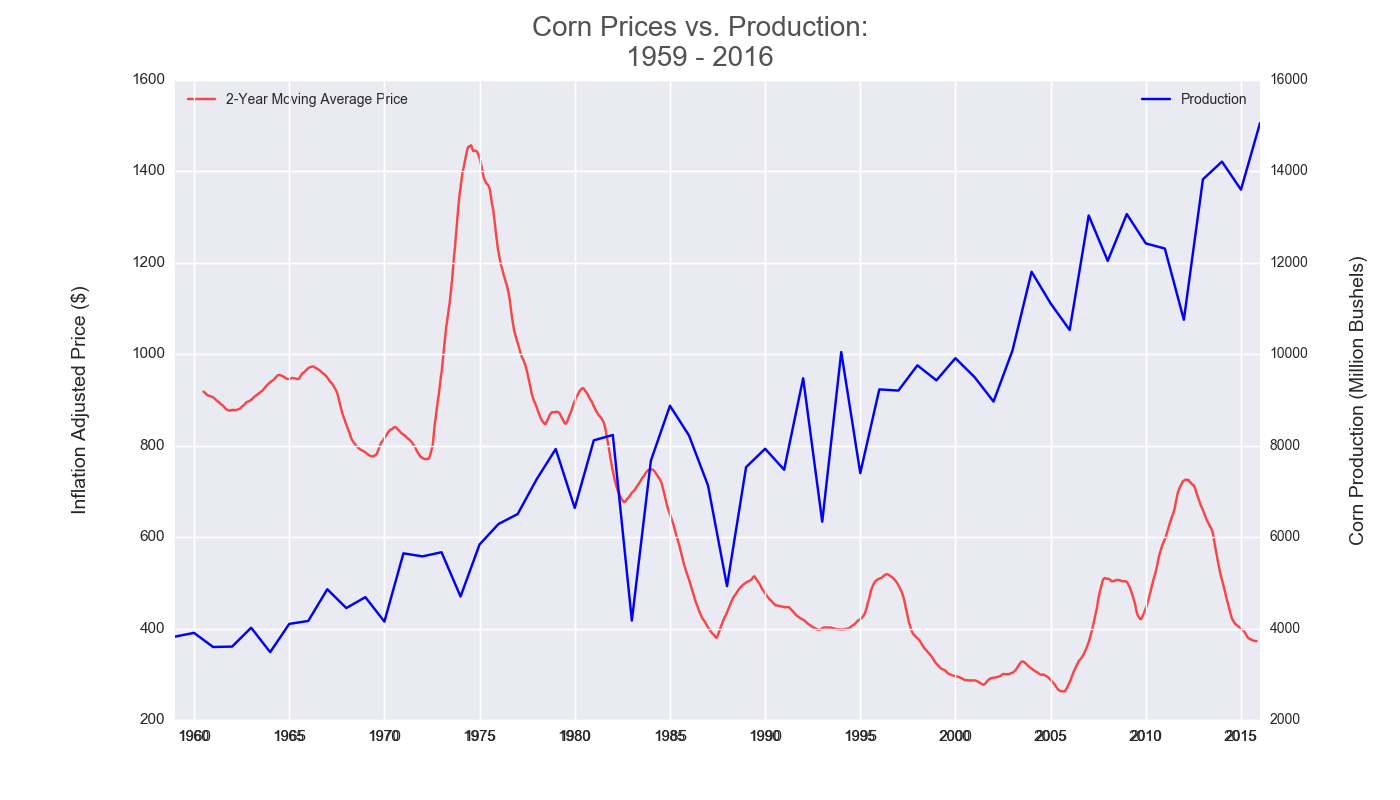
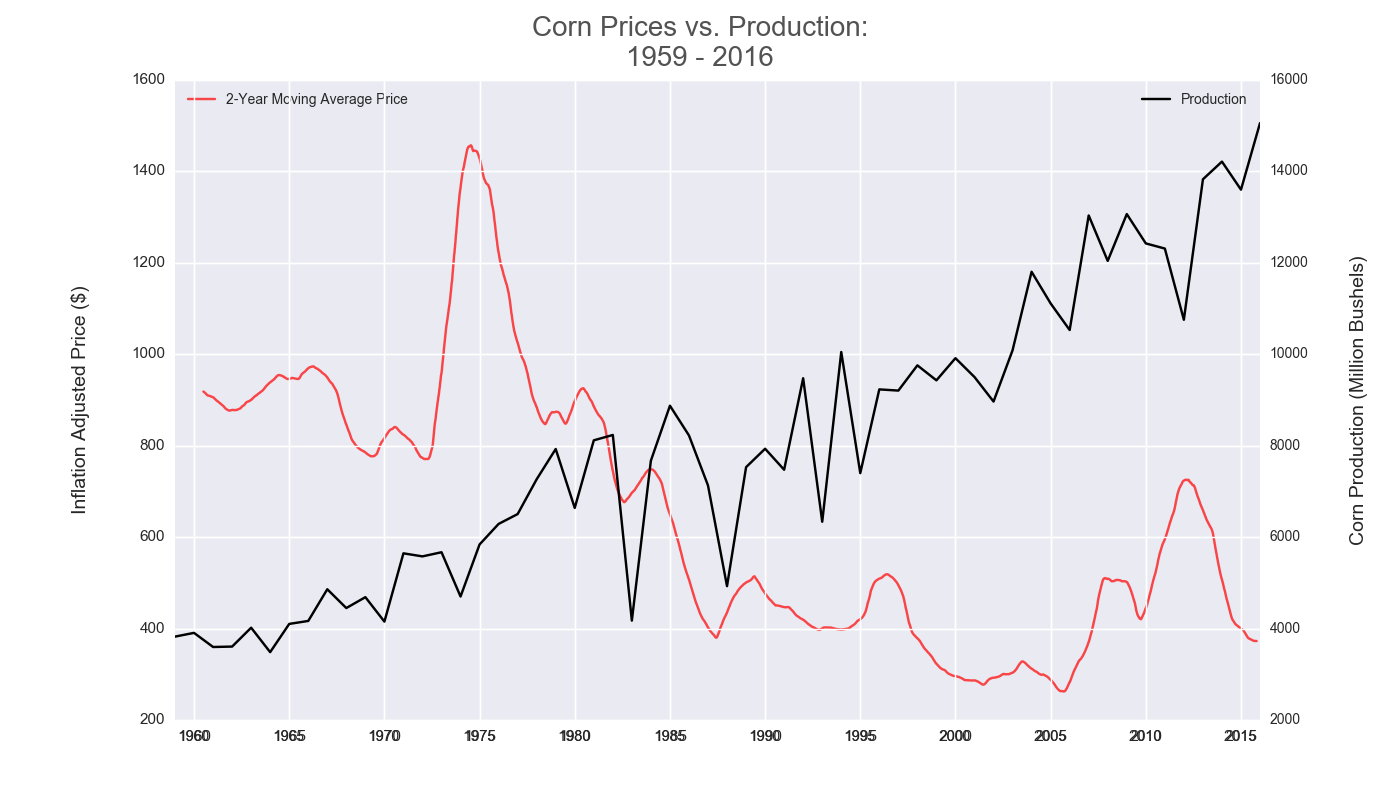
Readme updates

diff --git a/corn_futures_eda.py b/corn_futures_eda.py
@@ -103,7 +103,7 @@ def plot_nino_adjusted():
     x = np.array([x.to_pydatetime() for x in x])
     y_avg = movingaverage(y, 504)
     nino_mask = (df['ONI Index'] > 0).values
-    
+
     fig = plt.figure(figsize=(14,8))
     ax = fig.add_subplot(1,1,1)
     loc = YearLocator(5)
@@ -186,7 +186,7 @@ def plot_production_price():
     ax2 = fig.add_subplot(111, sharex=ax, frameon=False)
     ax2.yaxis.tick_right()
     ax2.yaxis.set_label_position('right')
-    ax2.plot(x_prod, prod, color='blue', label='Production')
+    ax2.plot(x_prod, prod, color='k', label='Production')
     plt.ylabel('Corn Production (Million Bushels)', size=14, labelpad=30)
     ax.xaxis.set_major_locator(loc)
     plt.suptitle('Corn Prices vs. Production:\n1959 - 2016', size=20, alpha=.8)
@@ -201,8 +201,8 @@ if __name__ == '__main__':
     # plot_daily_change()
     # plot_corn_log()
     # plot_corn_prices_adjusted()
-    plot_nino_adjusted()
+    # plot_nino_adjusted()
     # plot_adjusted_log()
     # plot_log_daily_change()
     # perform_dickey_fuller()
-    # plot_production_price()
+    plot_production_price()
